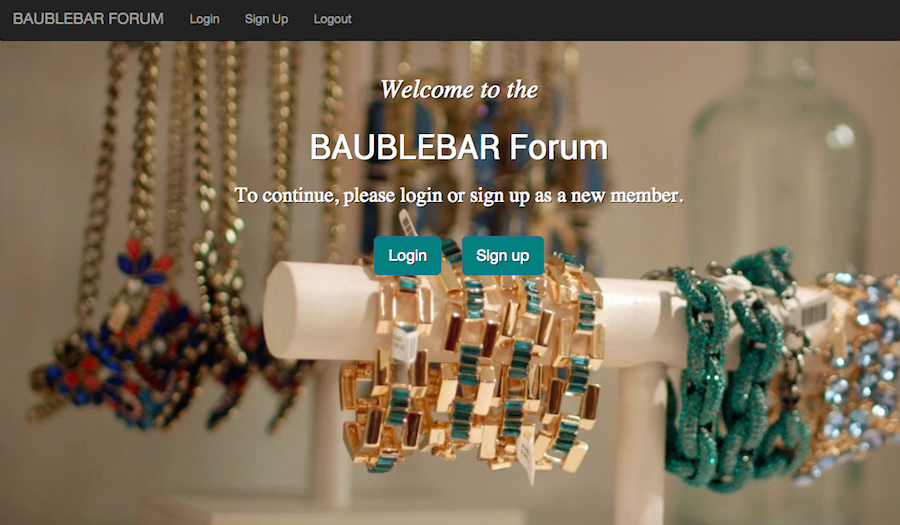
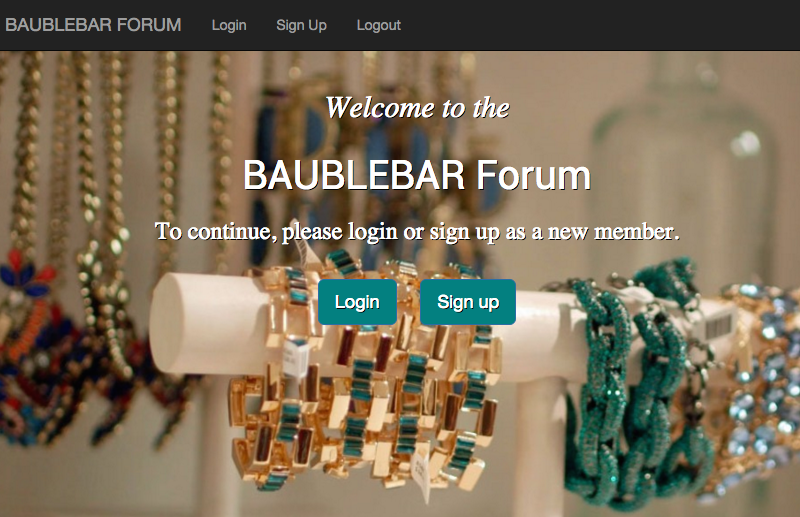
made images into a carousel

diff --git a/index.html b/index.html
@@ -38,76 +38,62 @@
     
     <h4 class="centered">Full stack web developer based in New York.</h4>
   	
-    <p> I enjoy making things and making a difference. Following five years working for various nonprofits in New York City, I decided to immerse myself in studying web development as a way to express creativity and build what I envision. Here are some of my projects.</p>
+    <p> I enjoy making things and making a difference. After working for various nonprofits in New York City, I decided to immerse myself in studying web development as a way to express creativity and build what I envision. Below are a few of my projects.</p>
 
-<a name="project-area">
+<a name="project-area"> 
+    <br/>
     <br/>
     
-<!--     <p>Likes: Javascript, in particular using a single language to build web applications with node.js/Express and AngularJS. Relational databases like PostgreSQL. The ease of encypting user logins with Ruby on Rails. Troubleshooting code. Check out some projects below.</p>	 -->
 	</div>
  
+ <div class="project-section">
+  <div class="slider">
+    <ul class="slides">
 
-  <div id="projects" class="">
-  
-    <div class="blkbg whitetext">
-      <hr class="styleline">  
-      <br>
-        <div class="center-align">
-          <img class="project-image responsive-img center-block" src="images/mta-app.png"> 
-          <h4 class="whitetext">No Mo' Stairs!!</h4>
-          <p><a href="https://mta-outages.herokuapp.com/">Live Site   |</a><a href="https://github.com/mmmfang/mta-elevators">    View code on Github</a></p>
-          <p>Built a MEAN stack app to track which NYC subway escalators and elevators were out of service.</p>
-        </div>
-      <br>
-    </div>
+      <li>
+        <img class="project-image" src="images/mta-app.png"> 
+<!--           <p><a href="https://mta-outages.herokuapp.com/">Live Site   |</a><a href="https://github.com/mmmfang/mta-elevators">    View code on Github</a></p>
 
+          <p>Built a MEAN stack app to track which NYC subway escalators and elevators were out of service.</p> -->
+      </li>
 
-  <div class="bg">
-    <hr class="styleline">
-      <br>
-        <div class=" blacktext center-align">
-          <img class="project-image responsive-img center-block" src="images/sensus-mood-app.png"> 
-          <h4>Mood App</h4>
-          <p><a href="https://frozen-bastion-8818.herokuapp.com">Live Site  | </a><a href="https://github.com/mmmfang/queens"> View code on Github</a></p>
-          <p>Along with <a href="http://www.dinahbakeer.com">Dinah </a>and <a href="http://www.shulihallak.com">Shuli</a>, built a Rails and AngularJS app that tracked user moods using emojis.</p>
-        </div>
-    <br>
+      <li>
+        <img class="project-image" src="images/sensus-mood-app.png">
+<!--           <p><a href="https://frozen-bastion-8818.herokuapp.com">Live Site  | </a><a href="https://github.com/mmmfang/queens"> View code on Github</a></p>
+
+          <p>Along with <a href="http://www.dinahbakeer.com">Dinah </a>and <a href="http://www.shulihallak.com">Shuli</a>, built a Rails and AngularJS app that tracked user moods using emojis.</p> -->
+      </li>
+
+      <li>
+        <img class="project-image" src="images/bauble_welcome_page.png"> 
+<!--           <p><a href="https://still-ravine-3077.herokuapp.com/">Live Site  |</a><a href="https://github.com/mmmfang/project-two">  View code on Github</a></p>
+
+          <p>With BaubleBar as my case study, I built a forum for their customers to interact, using MongoDB, Node.js and Express.</p> -->
+      </li >
+
+      <li>
+        <img class="project-image" src="images/recipe-box.png"> 
+<!--           <p><a href="https://recipe-box-app.herokuapp.com">Live Site  | </a><a href="https://github.com/mmmfang/recipes">View code on Github</a></p>
+          
+          <p>A CRUD App built with Rails and AngularJS that acts like a digital recipe box.</p> -->
+      </li>
+
+    </ul>
   </div>
-
-  <div class="blkbg">
-    <hr class="styleline">
-      <br>
-        <div class=" whitetext center-align">
-          <img class="project-image responsive-img center-block" src="images/bauble_welcome_page.png"> 
-          <h4>Case Study: Forum</h4>
-          <p><a href="https://still-ravine-3077.herokuapp.com/">Live Site  |</a><a href="https://github.com/mmmfang/project-two">  View code on Github</a></p>
-          <p>With BaubleBar as my case study, I built a forum for their customers to interact, using MongoDB, Node.js and express.</p>
-        </div>
-      <br>
-  </div>
-  
-  <div class="bg">
-    <hr class="styleline">
-      <br>
-        <div class="blacktext center-align">
-          <img class="responsive-img center-block" src="images/recipe-box.png"> 
-          <h4>Recipe Box</h4>
-          <p><a href="https://recipe-box-app.herokuapp.com">Live Site  | </a><a href="https://github.com/mmmfang/recipes">View code on Github</a></p>
-          <p>A CRUD App built with Rails and AngularJS that acts like a digital recipe box. </p>
-        </div>
-       
-  </div>
-
-</div>
 </div>
 
-<hr class="styleline"><a name="contact">
+
+
+<hr class="styleline">
 <div class="contact-area">
+  <a name="contact">
   <br/>
 
     <h4 class="whitetext pad-left">Get in Contact</h4>
+
     <i class="fa fa-envelope-o whitetext fa-2x pad-left-bottom"></i><a class="white-text right-align pad-left-bottom" href="mailto:mae.fang@gmail.com"> mae.fang@gmail.com</a>
     <br/>
+
 	  <i class="fa fa-github whitetext fa-2x pad-left-bottom"></i> <a class="white-text right-align pad-left-bottom" href="https://github.com/mmmfang">  https://github.com/mmmfang</a> 
 	  <br/>
     <i class="fa fa-linkedin-square whitetext fa-2x pad-left-bottom"></i> <a class="white-text right-align pad-left-bottom" href="http://www.linkedin.com/in/maefang">  https://www.linkedin.com/in/maefang</a>

diff --git a/css/style.css b/css/style.css
@@ -41,12 +41,34 @@ border: 0 none;
 
 }
 
+
 .photo {
 	width:100%;
 }
 
+.project-section {
+	height: 650px;
+	margin: 0 auto;
+
+}
+
+.slider, .slides {
+	height: 600px!important;
+	text-align: center;
+	background-color: white!important;
+
+}
+
+/*.full-slide {
+	width: 100%;
+	height: 600px!important;
+	text-align: center;
+
+}*/
+
 .project-image{
-	width: 800px;
+	width: 800px!important;
+	height: 517px!important;
 
 }
 

diff --git a/scripts/app.js b/scripts/app.js
@@ -2,3 +2,12 @@
       $('.slider').slider({full_width: true});
     });
         
+        
+// // Pause slider
+// $('.slider').slider('pause');
+// // Start slider
+// $('.slider').slider('start');
+// // Next slide
+// $('.slider').slider('next');
+// // Previous slide
+// $('.slider').slider('prev');
